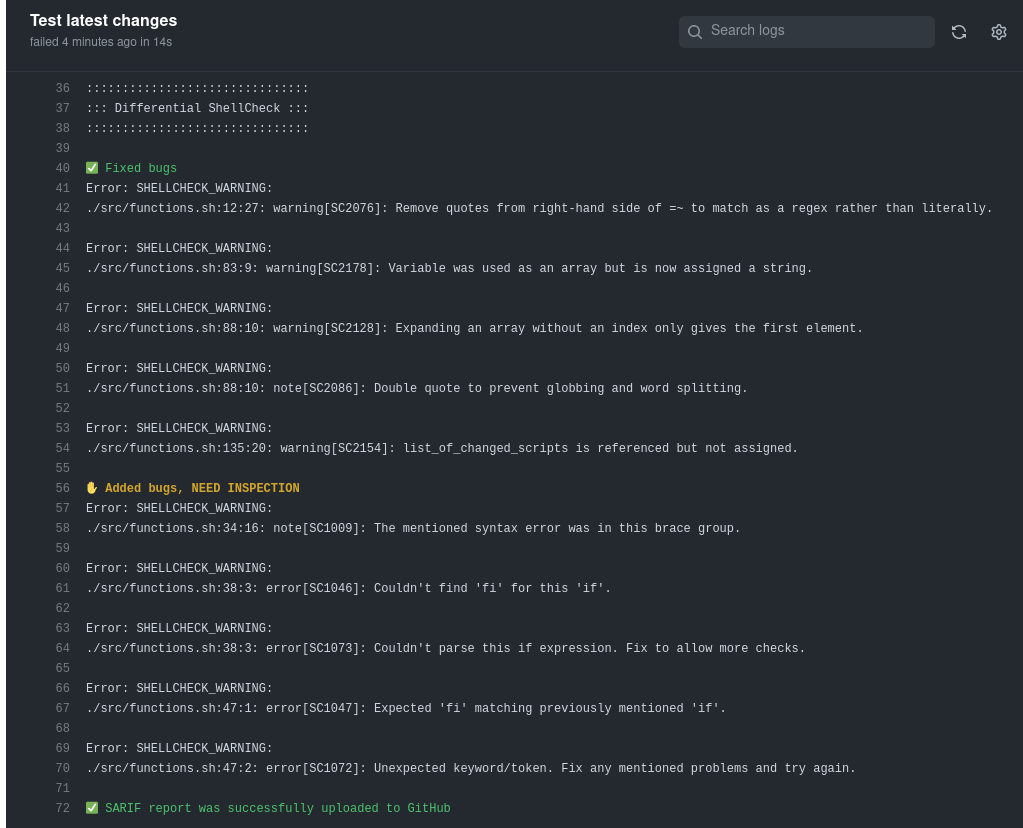
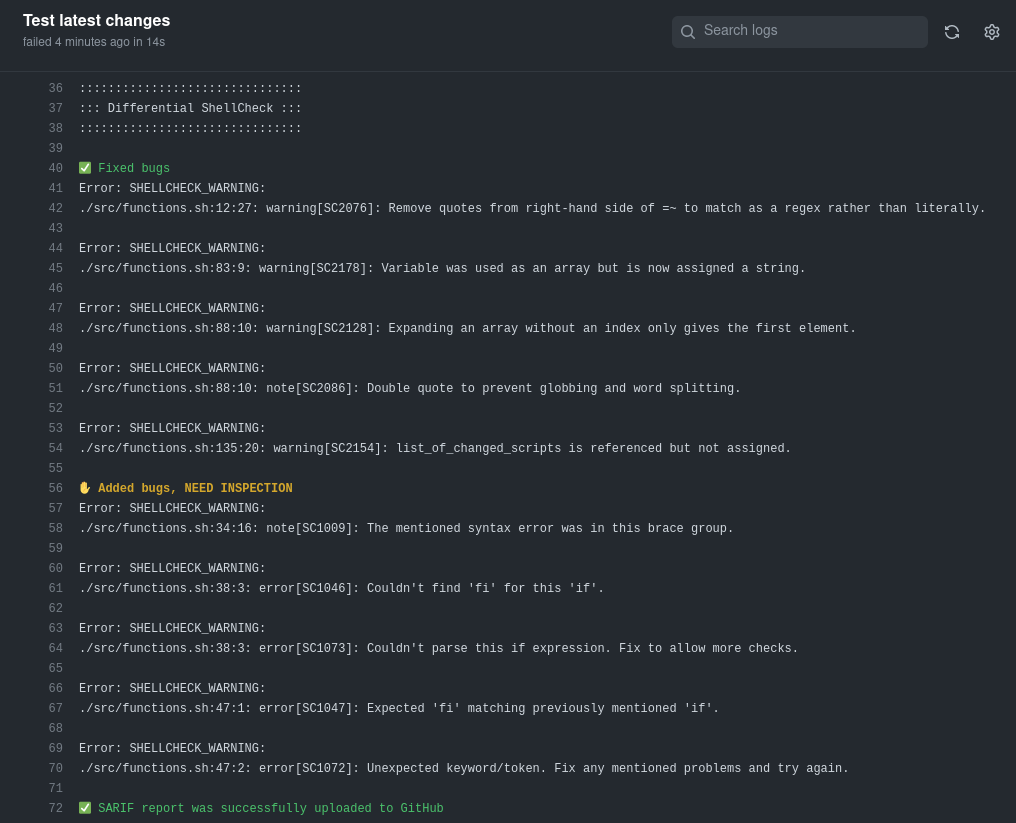
Update screenshot examples and align to center

diff --git a/README.md b/README.md
@@ -76,19 +76,25 @@ jobs:
 
 <details>
   <summary>Console output example</summary>
-  <img src="doc/images/output-example.png" width="800" />
+  <p align="center">
+    <img src="doc/images/output-example.png" width="800" />
+  </p>
 </details>
 
 <details>
   <summary>Example of output in Changed files tab</summary>
-  <img src="doc/images/sarif-output-example-light.png#gh-light-mode-only" width="800" />
-  <img src="doc/images/sarif-output-example-dark.png#gh-dark-mode-only" width="800" />
+  <p align="center">
+    <img src="doc/images/sarif-output-example-light.png#gh-light-mode-only" width="600" />
+    <img src="doc/images/sarif-output-example-dark.png#gh-dark-mode-only" width="600" />
+  </p>
 </details>
 
 <details>
   <summary>Example of @github-code-scanning bot review comment</summary>
-  <img src="doc/images/sarif-comment-light.png#gh-light-mode-only" width="800" />
-  <img src="doc/images/sarif-comment-dark.png#gh-dark-mode-only" width="800" />
+  <p align="center">
+    <img src="doc/images/sarif-comment-light.png#gh-light-mode-only" width="600" />
+    <img src="doc/images/sarif-comment-dark.png#gh-dark-mode-only" width="600" />
+  </p>
 </details>
 
 ### Real life examples of usage
